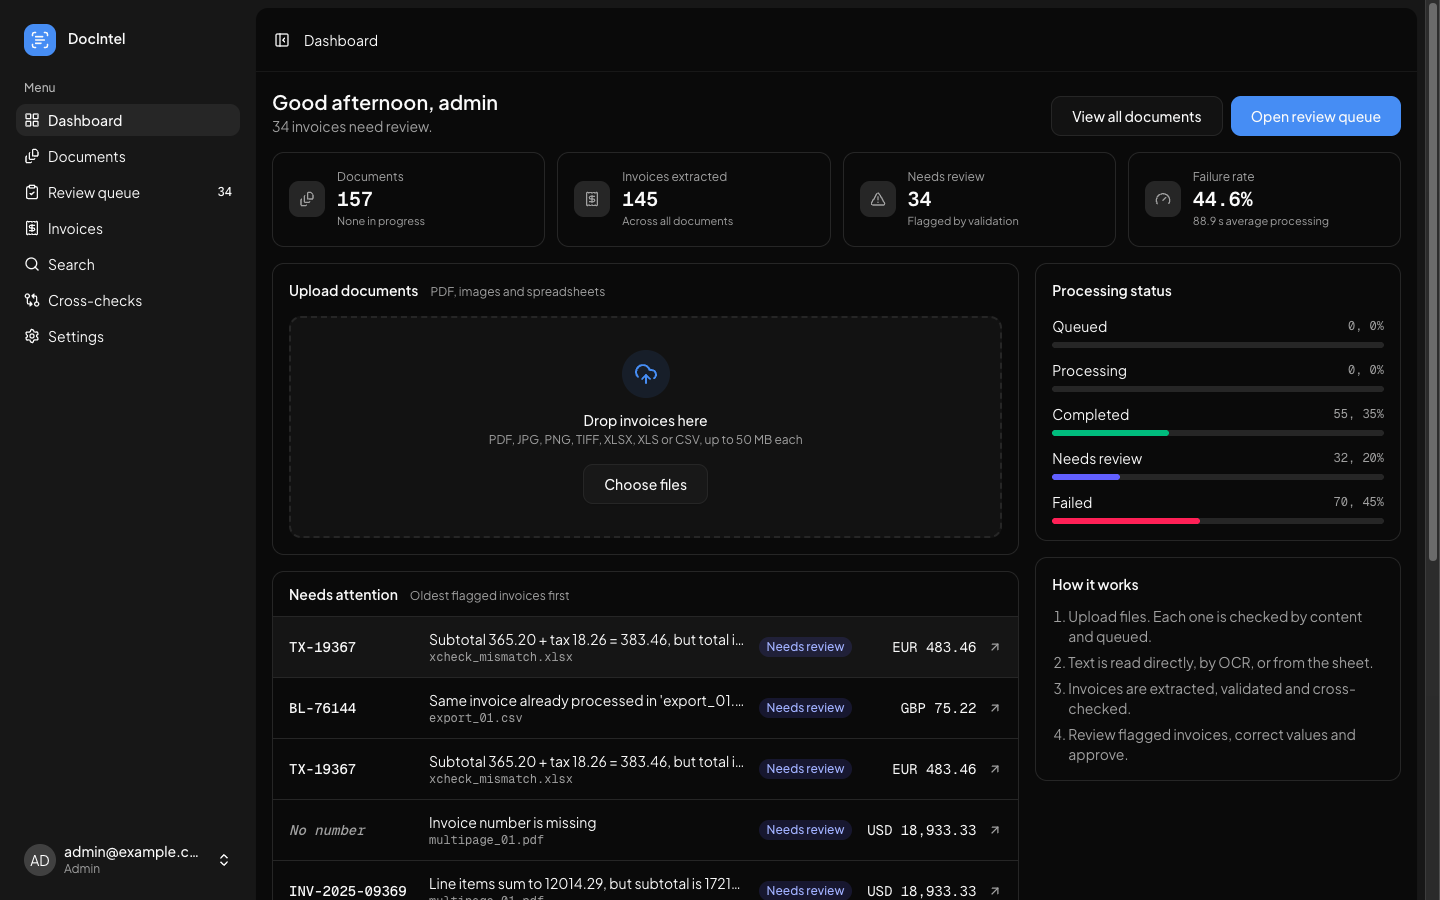
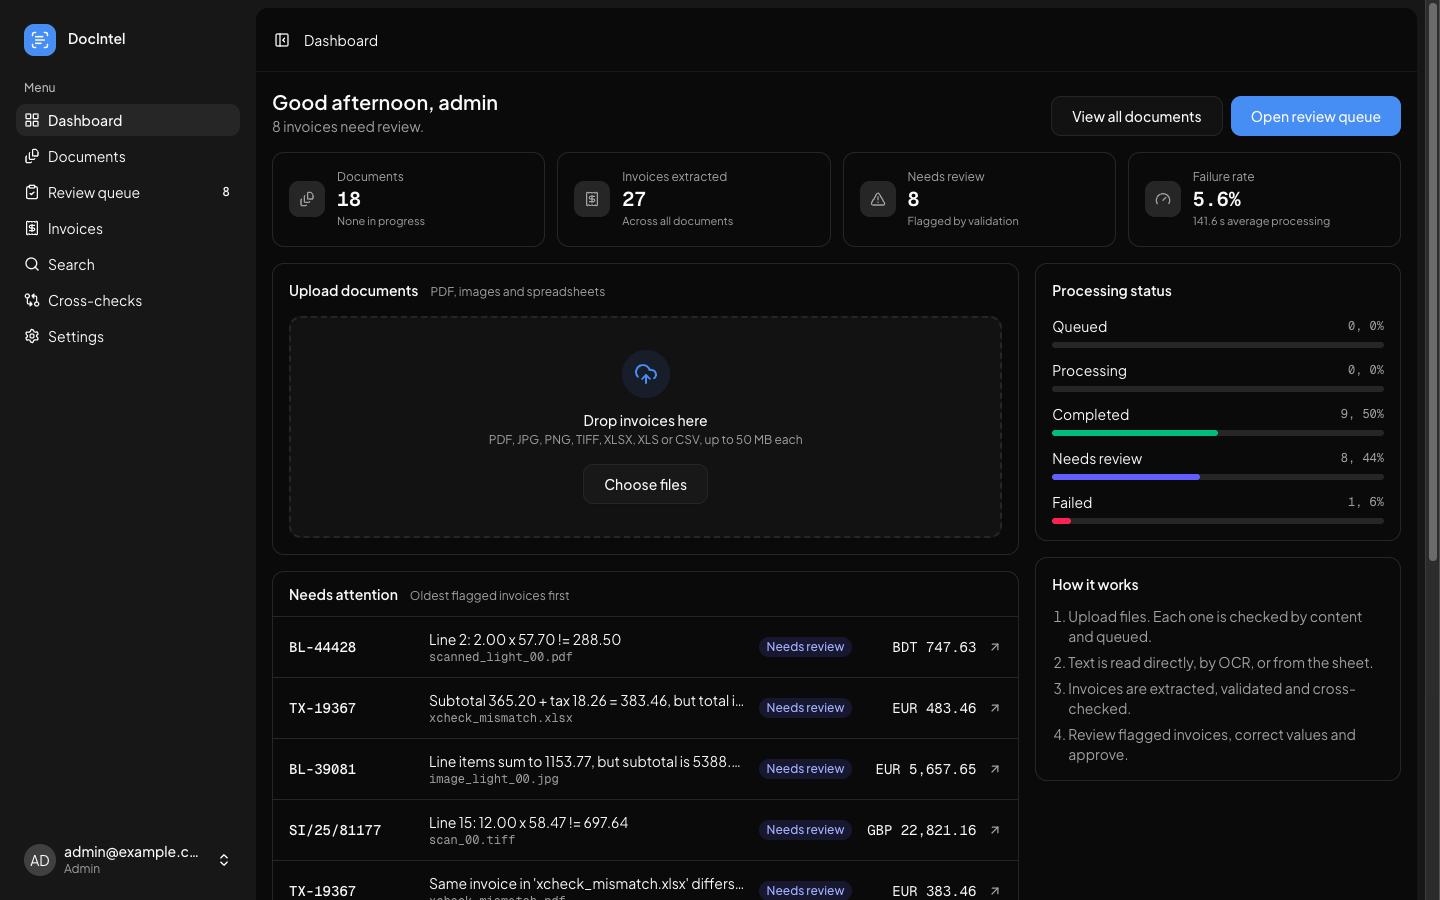
Refresh screenshots from a clean demo dataset
Dashboard, documents and invoice review in light and dark, plus cross-checks, taken from the production build after processing a curated set of 18 documents (every file type, a wrong-total invoice, a PDF/Excel mismatch pair and a corrupted file).

diff --git a/README.md b/README.md
@@ -49,6 +49,8 @@ Further reading: [docs/database-schema.md](docs/database-schema.md) (column-leve
 | ![Dashboard](frontend/docs/screenshots/dashboard-light.png) | ![Dashboard dark](frontend/docs/screenshots/dashboard-dark.png) |
 | **Invoice review** | **Documents** |
 | ![Invoice detail](frontend/docs/screenshots/invoice-detail-light.png) | ![Documents](frontend/docs/screenshots/documents-light.png) |
+| **Cross-checks (PDF vs Excel)** | **Documents (dark)** |
+| ![Cross-checks](frontend/docs/screenshots/cross-checks-light.png) | ![Documents dark](frontend/docs/screenshots/documents-dark.png) |
 
 ## 3. Installation
 
